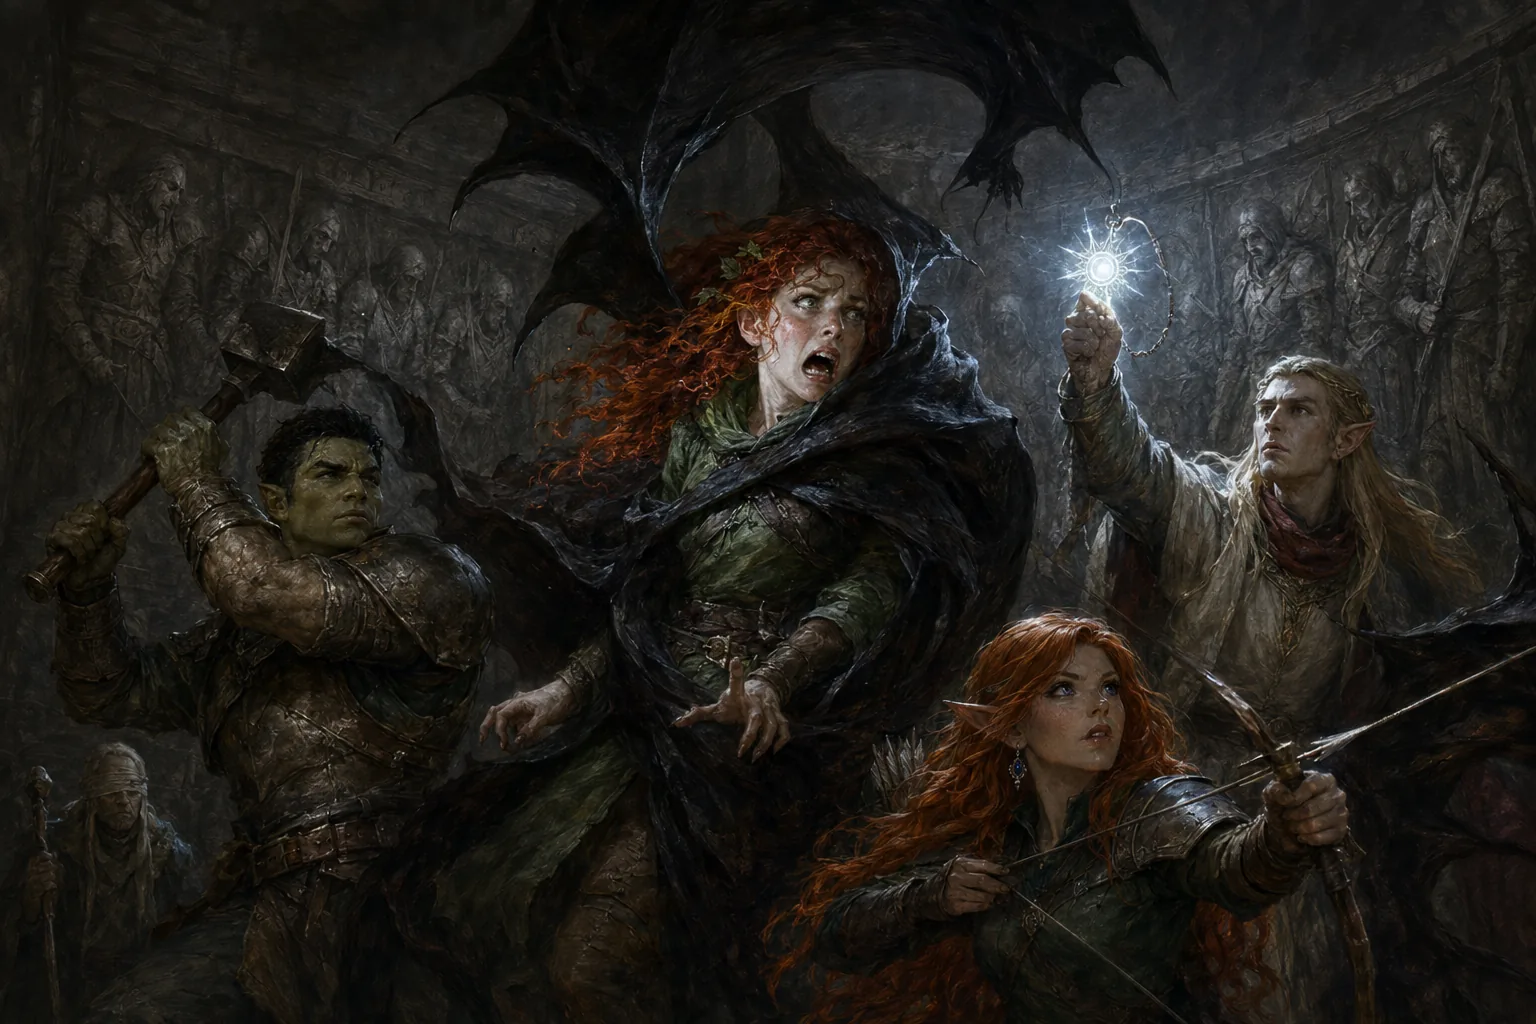
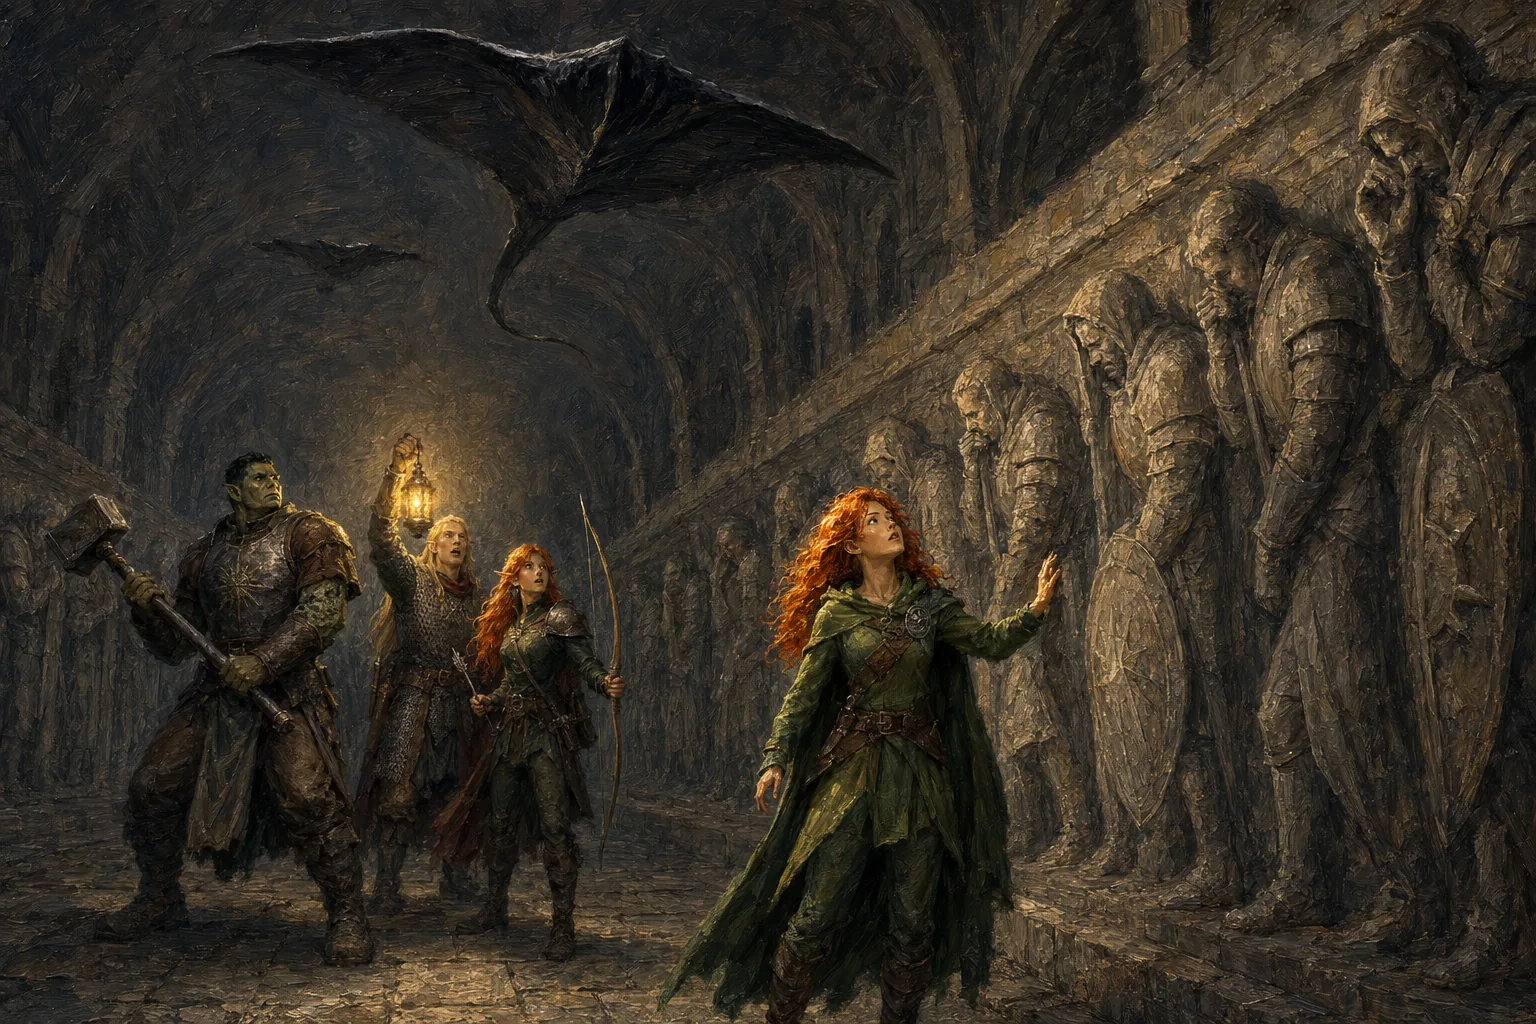
Re-roll the host of sorrowful stone, and settle Iomedae's device
Closes the last Reconcile item in the kit guide. Varic is in the humble
Era I kit -- battered chain shirt over travel robes, deep-red scarf,
plain iron sunburst, no gold and no mantle -- holding the lantern that
lights the scene. Harlock's salvaged breastplate and bare starburst read
more clearly here than in any other plate, and he carries his warhammer.

The hall now illustrates its own title: rank on rank of carved crusaders
down the right-hand wall with every graven face bent in grief. The
heroic default needed excluding explicitly.

The depicted instant moved one beat earlier -- Rabiah alone out ahead,
hand still on the carving, looking up at the shape unfurling from the
vault with clear air between them, nothing touching anyone. Safer than
the old plate and a better fit for the caption, since the lesson is that
she walked out ahead alone.

Rabiah's age read correctly on the first roll using the proportion rule
written into the style guide after the mongrels failure. The rule
transfers.

Lupenor's bow avoided the whole drawn-bow failure cluster by staging:
string slack and straight, arrows being pulled clear of the quiver,
nothing nocked.

Also amends Iomedae's CANON row to carry the sword-and-sun, with the
portrait's bare starburst marked as legacy drift -- the same note
Irabeth's row already had, and the contradiction flagged when the
Inheritor's kiss shipped.

diff --git a/characters/CANON.md b/characters/CANON.md
@@ -41,7 +41,7 @@ kit guide disagree, the kit guide wins.
 | **Cornelia Dewfoot** | [`cornelia.webp`](cornelia.webp) | Rabiah's Redeemers | Small fey-featured druid; long wavy blonde hair with small braids and a leaf tucked in, pointed ears, **blue eyes**, freckles. Tattered layered green leaf-like druid garb and mossy cloak, beaded necklace, belt of pouches with a small animal skull; carries an oversized scythe with a **vine-wrapped wooden haft**; crescent moon overhead. **She reads as a CHILD — render her youthful and never sexualized: no adult proportions, no revealing or form-fitting clothing.** |
 | **Elara Dawnstrider** | [`elara-dawnstrider.webp`](elara-dawnstrider.webp) | Harlock's Order | Human paladin woman; long wavy brown-auburn hair, gold drop earrings; polished **silver plate with gold filigree, one oversized layered spiked pauldron on her left shoulder**. **Her armour is SPIKY THROUGHOUT, not just at that pauldron — spikes on the upper arms (rerebraces), the lower arms (vambraces), the knees (poleyns), and the gauntlets.** *(Corrected by Matt, Aug 2026, on the Book III Ch. I art: prompts that named only the shoulder pauldron came back with otherwise smooth, plain plate.)* She holds an ornate polearm with a silver-and-gold winged head; sunlit citadel behind. **Full plate cuirass covering the torso — never bared midriff or bikini-plate.** |
 | **Arueshalae** | [`arueshalae.webp`](arueshalae.webp) | Allies & Powers | Succubus; short tousled black hair, curved dark horns, pointed ears, freckled; dark membranous wings. **Dressed in practical brown leather adventuring armor — a high-collared, buckled, long-sleeved leather jacket over leather trousers and tall buckled boots. FULLY COVERED, modest and battle-worn; never revealing, never a bikini/harness/bare midriff.** Tattoos show only at the open collar of her throat. Storm-lit. Style exemplar: [`../images/arueshalae.webp`](../images/arueshalae.webp). |
-| **Iomedae** | [`iomedae.webp`](iomedae.webp) | Allies & Powers | The Inheritor, goddess of righteous valor. Human woman; **short black hair in a chin-length bob**, pale skin, dark eyes. **She emits a subtle divine radiance** — a soft glow clinging to her person that lights the air around her. Never a halo ring, glowing eyes, beams, or rays. **Mirror-polished silver-white full plate with fine gold edging**, a **rich clean crimson cloak**, a **silver-white kite shield bearing a gold eight-pointed starburst**, and a long straight **longsword held point-down, both hands resting on the pommel**. **Her gear is ALWAYS immaculate — no dent, scratch, smudge, soot, rust, tatter, or battle damage, ever, however ruined the setting around her.** **Only her FACE bears scars — the remnant of her mortal life:** a pale scar down her left cheek, weathered and lined, a woman of middle years carrying the gravity of ages. Never a smooth, young, unmarked face. **Fully covering plate — gorget, pauldrons, vambraces, gauntlets, faulds, and fully armored legs. Never bare thighs, bare midriff, a contoured/anatomical breastplate, or bikini-plate.** *(Fresh house-style render; the original 188×268 source thumbnail was low-resolution, young-faced, and bare-legged, and is superseded.)* |
+| **Iomedae** | [`iomedae.webp`](iomedae.webp) | Allies & Powers | The Inheritor, goddess of righteous valor. Human woman; **short black hair in a chin-length bob**, pale skin, dark eyes. **She emits a subtle divine radiance** — a soft glow clinging to her person that lights the air around her. Never a halo ring, glowing eyes, beams, or rays. **Mirror-polished silver-white full plate with fine gold edging**, a **rich clean crimson cloak**, a **silver-white kite shield**, and a long straight **longsword held point-down, both hands resting on the pommel**. **Her device is IOMEDAE'S OWN: a vertical sword, point down, in front of a blazing sun — hilt, pommel and straight crossguard at the TOP, blade hanging below, tip at the BOTTOM — in engraved raised gold, not glowing.** *(The portrait shows a bare gold eight-pointed starburst with no sword on her chest and shield; that is legacy drift from before the device was settled, exactly as on [Irabeth](irabeth.webp). **Render the sword-and-sun in all new art** — take her face from the portrait, her device from this row. Established: [`../images/the-inheritors-kiss.webp`](../images/the-inheritors-kiss.webp), Aug 2026.)* **Her gear is ALWAYS immaculate — no dent, scratch, smudge, soot, rust, tatter, or battle damage, ever, however ruined the setting around her.** **Only her FACE bears scars — the remnant of her mortal life:** a pale scar down her left cheek, weathered and lined, a woman of middle years carrying the gravity of ages. Never a smooth, young, unmarked face. **Fully covering plate — gorget, pauldrons, vambraces, gauntlets, faulds, and fully armored legs. Never bare thighs, bare midriff, a contoured/anatomical breastplate, or bikini-plate.** *(Fresh house-style render; the original 188×268 source thumbnail was low-resolution, young-faced, and bare-legged, and is superseded.)* |
 | **Horgus Gwerm** | [`horgus-gwerm.webp`](horgus-gwerm.webp) | Allies & Powers | Human man in his early sixties; a wealthy **Kenabres** merchant-noble, hauled out of the caverns beneath the fallen city, and later the crusade's blunt, unsentimental quartermaster at **Drezen**. **Heavy-set and well-fed**, with a broad, jowly, fleshy face; a strong prominent nose; a downturned mouth with deep lines running to its corners; hooded eyes under a heavy brow; a thick neck and a soft jaw. Clean-shaven, pale indoor complexion, **grey-blue eyes**. **SILVER-GREY HAIR, receding at the temples to a peak at the centre, thinning on top, short and swept straight back.** **He is HUMAN — small rounded human ears, NOT pointed** *(his ear reads faintly pointed in the dim Book I render; that is lighting and drift, and the portrait is the authority).* **Dress:** expensive, heavy and sober — a long **deep oxblood-red** wool coat and fur-trimmed mantle over a high-necked charcoal doublet, a heavy round silver clasp at the throat, plain gold rings. **NO armour, NO weapon, NO holy symbol, no crown or coronet, nothing gaudy.** **His prop is a thick worn LEDGER** held closed against his chest — he is the man who counts the wagons, and it should read as his weapon. **Bearing: upright, chin lifted, composed, faintly impatient — sour, shrewd and unimpressed, a man used to being obeyed. Never a sneering cartoon villain, never comic, and never the huddled frightened figure of the caves** — *that is `a-safe-haven-restored`, his worst hour, and the only reason it looks that way; from Book II on he is every inch the nobleman.* |
 | **Sosiel Vaenic** | [`sosiel-vaenic.webp`](sosiel-vaenic.webp) | Allies & Powers | Human man, mid-thirties; priest of **Shelyn** and the crusade's chaplain, later keeper of Drezen's multi-denominational temple. **Dark brown skin**, close-cropped black hair and a neat short black beard, dark brown eyes, high cheekbones; broad-shouldered and strongly built — *"dark, toned, and handsomely made,"* which is the chronicle's own phrase for him. Small rounded human ears. **He is a PAINTER, and it shows on him: hands and fingernails stained with old paint in several colours, worked into the skin and never scrubbed out**, a smear on a forearm or jaw, a worn wooden brush carried like a pen, and a battered satchel of brushes, pigment jars and rolled papers at his hip. Simple layered travelling robes over a padded gambeson in dove-greys and warm neutrals, paint-flecked and travel-worn. **His holy symbol is a SONGBIRD WITH A LONG MULTICOLOURED TAIL FEATHER** in silver and enamel — **never a sunburst, never a sun, never a sword**; the chronicle already carries Sarenrae's bare sun and Iomedae's sword-and-sun, and a third sun-device would collapse all three faiths together. **Shelyn's glaive** rides across his back, carried almost as an afterthought. No plate, no mail, no gold. *The paint and the enamel are the only saturated colour on him — hold that.* **Lover of [Aron Kir](aron-kir.webp).** |
 | **Aron Kir** | [`aron-kir.webp`](aron-kir.webp) | Allies & Powers | Human man, mid-thirties; scout, tactician and former spy — *"a tactician and scout who read ground the way other men read letters"* — later Warden of Drezen, and literate enough to translate dwarven runes. Lean and wiry, built for walking rather than the shield wall. Short dark brown hair roughly cut and pushed back, a close-trimmed beard along a narrow jaw, **sharp grey-green eyes** set deep under level brows, a long weathered face with fine lines from squinting into distances. Small rounded human ears. Clever-looking and quick rather than handsome — the face that has already noticed you. Practical layered travelling leathers over dark wool in muted greys and browns, hooded cloak thrown back, patched and road-stained; a light sidearm at the hip only. **No plate, no mail, no heraldry, no holy symbol.** His props are his trade: **a worn canvas-backed map, a brass spyglass, a leather map-case, a stub of charcoal behind one ear.** **Render him CLEAN, CAPABLE AND AT HIS BEST.** *His shadowblood addiction is a **state he passes through**, not a likeness: he was a year clean before Vilareth Ford and returns to command afterward. **Never** render him gaunt, hollow-cheeked, sunken-eyed, haggard or strung-out as a default — only if a specific scene calls for it.* **Lover of [Sosiel Vaenic](sosiel-vaenic.webp).** |

diff --git a/bible/07-art-reroll-list.md b/bible/07-art-reroll-list.md
@@ -24,19 +24,42 @@ with a counter-example.
 
 ---
 
-## Raised but not decided (Matt's call)
-
-Flagged in `05-kit-and-timeline.md` under *Reconcile*: made before Varic's humble Era I kit was
-settled, and shows him **already gilded**, which contradicts the era.
-
-- `the-host-of-sorrowful-stone.webp`
-
-Regenerate to the humble kit, or accept the drift and note it as accepted.
-*(Its companion `the-mongrels-of-the-deep.webp` was re-rolled Aug 2026 — see Done.)*
-
----
-
 ## Done
+
+### `the-host-of-sorrowful-stone.webp` — re-rolled Aug 2026
+*Book I, "The Host of Sorrowful Stone". Caption: "Rabiah learns the rule about standing behind
+Harlock." **This was the last *Reconcile* item; that section of the kit guide is now closed.***
+
+**The re-roll reason was Varic's gilded kit**, and he is now in the humble Era I look — battered
+chain shirt over dark travel robes, deep-red scarf, plain iron sunburst, no gold, no mantle, no
+pauldrons — holding the lantern that lights the scene. Harlock's **salvaged breastplate and its bare
+starburst read more clearly here than in any other plate**, and he carries the warhammer the text
+gives him.
+
+**The hall finally illustrates its own title.** The old plate barely showed the carvings; the new one
+makes them the whole right-hand side — rank on rank of life-sized crusaders in bas-relief with
+**every graven face bent in grief**, heads bowed, hands raised to faces. `carved figures that look
+triumphant, heroic, proud, calm or blank` went into `Avoid:`, since a wall of carved soldiers
+defaults to heroic.
+
+**The depicted instant was moved one beat EARLIER, and it is both safer and the better picture.** The
+old plate showed Rabiah already seized and screaming; this one is the eyeblink before — she is alone
+out ahead with her hand still on the carving, looking up, the dark shape unfurling from the vault
+with clear air between them, and the others only now turning. **Nothing touches anyone anywhere in
+the frame**, and the contact vocabulary sits in `Avoid:` rather than the body. This is the same move
+that rescued `rabiahs-raw-magic`, and it also serves the caption better: the lesson *is* that she
+walked out ahead alone.
+
+**Rabiah's age read correctly on the FIRST roll here**, applying the proportion rule that had just
+been written into `04-visual-style-guide.md` after the `the-mongrels-of-the-deep` failure — adult
+head-to-body ratio, adult face by its features, height separated from youth explicitly, and standing
+upright. **The rule transfers; use it for every group frame she is in.**
+
+**Lupenor's bow was kept out of trouble by staging, not by description** — bow upright in her left
+hand with the string slack and dead straight, her right hand pulling arrows clear of the quiver,
+nothing nocked and nothing touching the string. The whole drawn-bow failure cluster (empty string,
+two arrows, fist grip, string off-frame) simply cannot occur.
+*(Minor accepted drift: she holds two or three arrow shafts rather than the single one specified.)*
 
 ### `the-mongrels-of-the-deep.webp` — re-rolled Aug 2026
 *Book I, "The Mongrels of the Deep". Caption: "Wretched and ugly, but worthy of kindness".*
@@ -44,8 +67,8 @@ Regenerate to the humble kit, or accept the drift and note it as accepted.
 **The reason for the re-roll was Varic's gilded kit**, which contradicted Era I. He is now in the
 battered chain shirt over ash-smeared travel robes, deep-red scarf, plain iron sunburst, **no gold
 and no mantle** — with `a gold-filigree breastplate`, `golden or gilded armour`, `a red mantle` in
-`Avoid:`. This closes one of the two *Reconcile* items in `05-kit-and-timeline.md`; the other,
-`the-host-of-sorrowful-stone.webp`, is still open.
+`Avoid:`. One of the two *Reconcile* items in `05-kit-and-timeline.md`; the other,
+`the-host-of-sorrowful-stone.webp`, was re-rolled the same day and **that section is now closed.**
 
 **The frame is now a strong Era I group exemplar**, because everyone in it is correct at once:
 Harlock's **salvaged breastplate with its bare starburst** (per Matt's Aug 2026 device ruling),

diff --git a/bible/05-kit-and-timeline.md b/bible/05-kit-and-timeline.md
@@ -322,16 +322,17 @@ kit forward. Things that belong to **later** eras, **not** Era I:
 ## Reconcile — existing art that predates this guide
 
 Two early Book I images were made **before** Varic's humble Era I kit was settled, and showed
-him **already gilded**, inconsistent with Era I above. **One is fixed; one is still open.**
+him **already gilded**, inconsistent with Era I above. ✅ **BOTH ARE NOW RE-ROLLED (Aug 2026) AND
+THIS SECTION IS CLOSED.** Varic wears the battered chain shirt over travel robes with the deep-red
+scarf and the plain iron sunburst in both — no gold, no mantle.
 
-- ✅ [`../images/the-mongrels-of-the-deep.webp`](../images/the-mongrels-of-the-deep.webp) —
-  **re-rolled Aug 2026 to the humble kit.** Varic now wears the battered chain shirt over travel
-  robes with the deep-red scarf and the plain iron sunburst, no gold and no mantle. **This image is
-  now a good Era I exemplar for the whole company at once**: Harlock's salvaged breastplate with its
-  bare starburst, Rabiah's uncannily clean green, and Lupenor's green tunic and pauldron are all in
-  the same frame.
-- ⏳ [`../images/the-host-of-sorrowful-stone.webp`](../images/the-host-of-sorrowful-stone.webp) —
-  **still gilded. Decision pending (Matt):** regenerate to the humble kit, or accept the drift.
+- ✅ [`../images/the-mongrels-of-the-deep.webp`](../images/the-mongrels-of-the-deep.webp)
+- ✅ [`../images/the-host-of-sorrowful-stone.webp`](../images/the-host-of-sorrowful-stone.webp)
+
+**Both are now good Era I exemplars for the whole company at once** — Harlock's salvaged breastplate
+with its bare starburst, Rabiah's uncannily clean green, and Lupenor's green tunic and single steel
+pauldron all in frame together. `the-host-of-sorrowful-stone` is the clearer of the two for
+**Harlock's breastplate and its bare starburst**, and the only one showing his **warhammer**.
 
 **Harlock's holy symbol predates this rule.** The sword-and-sun device was settled only at the
 Book I Epilogue. Every Harlock image made before it — the chest device in
